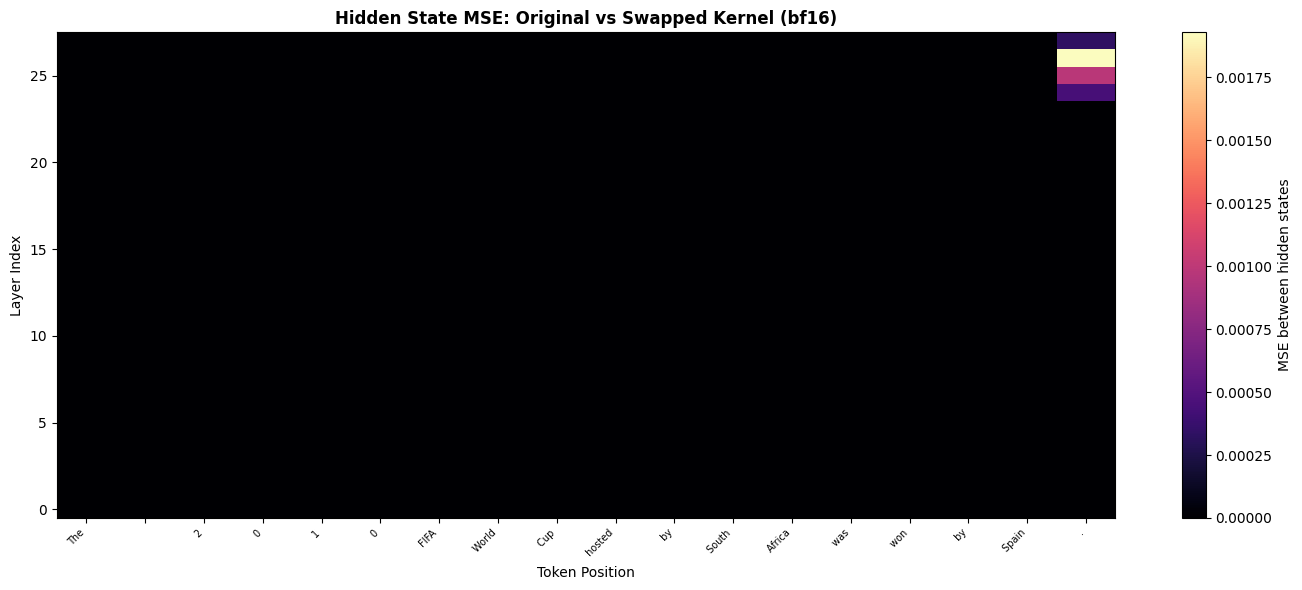
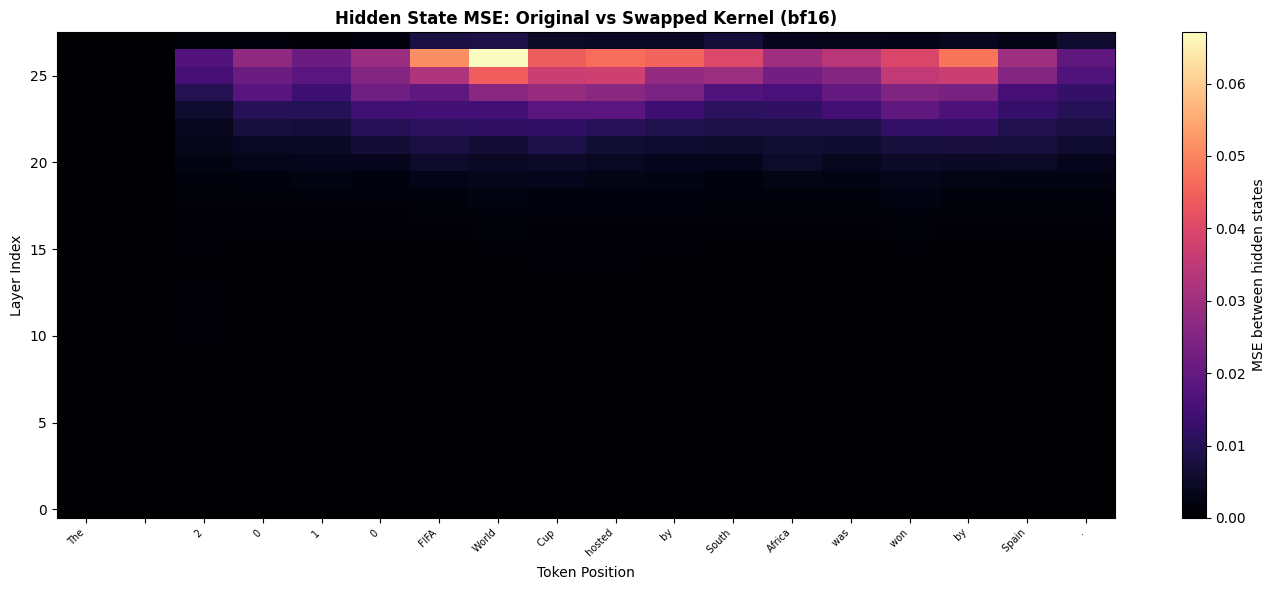
Regenerate kernel-swapping post from notebook, update date to 2026-04-28

diff --git a/_posts/2026-04-28-kernel-swapping-performance.md b/_posts/2026-04-28-kernel-swapping-performance.md
@@ -2,7 +2,7 @@
 layout: post
 title: "Kernel Swapping Affects Model Performance"
 description: "Custom Triton kernels can pass tolerance-based unit tests yet still change a model's hidden states, output distributions, and benchmark performance. We show this end-to-end by swapping the RMSNorm kernel in Qwen3-0.6B with Liger-Kernel."
-date: 2026-04-27
+date: 2026-04-28
 author:
   name: Pramodith B
   title: Member of Technical Staff
@@ -12,7 +12,6 @@ author:
 *By [Pramodith B](https://www.linkedin.com/in/pramodith/), Member of Technical Staff*
 
 ## Kernel Swapping Affects Model Performance
-
 The availability of compute is a major bottleneck faced by all the AI labs/model providers today. Kernel engineering is a critical component of the model development and deployment process that tries to alleviate the affects of this bottleneck by maximizing the use of underlying GPU acclerators. 
 
 Consequently, we've seen a proliferation of open source kernel/inference libraries like Flash-Attention, Liger-Kernel, Flash-Linear-Attention, vLLM, and flash-infer that provide highly specialized kernels for different operations, workloads, dtypes, and hardware. 
@@ -31,6 +30,7 @@ _The results shown in this blog are based on running the model and kernel on an 
 
 
 ## Setup
+
 
 ```python
 import torch
@@ -57,14 +57,11 @@ if torch.cuda.is_available():
 
 ```
 
-```
-/workspace/blog/kernel-swapping-performance/.venv/lib/python3.11/site-packages/tqdm/auto.py:21: TqdmWarning: IProgress not found. Please update jupyter and ipywidgets. See https://ipywidgets.readthedocs.io/en/stable/user_install.html
-  from .autonotebook import tqdm as notebook_tqdm
-Device : cuda
-PyTorch: 2.11.0+cu130
-GPU    : NVIDIA GeForce RTX 5060 Ti
-VRAM   : 16.6 GB
-```
+    Device : cuda
+    PyTorch: 2.11.0+cu130
+    GPU    : NVIDIA H100 80GB HBM3
+    VRAM   : 85.0 GB
+
 
 ---
 
@@ -77,6 +74,7 @@ $$\text{RMSNorm}(\mathbf{x}) = \frac{\mathbf{x}}{\text{RMS}(\mathbf{x})} \cdot \
 Unlike LayerNorm, RMSNorm skips the mean-subtraction step, making it cheaper to compute.
 
 The implementation of [RMSNorm](https://github.com/huggingface/transformers/blob/0db33792ed1cc6a61d96f5d59fd0c930db2896fe/src/transformers/models/qwen3/modeling_qwen3.py#L50) in Hugging Face's `transformers` library for the Qwen3 model is shown below:
+
 
 ```python
 class Qwen3RMSNorm(nn.Module):
@@ -103,6 +101,7 @@ class Qwen3RMSNorm(nn.Module):
 
 [Liger-Kernel](https://github.com/linkedin/Liger-Kernel) ships fused Triton replacements for standard Transformer ops. These triton kernels are supposed to deliver better speed and/or memory efficiency. We import `LigerRMSNormFunction` directly and use it as a drop-in for `Qwen3RMSNorm.forward`:
 
+
 ```python
 liger_kernel_rmsnorm = LigerRMSNormFunction.apply
 ```
@@ -113,6 +112,7 @@ liger_kernel_rmsnorm = LigerRMSNormFunction.apply
 The standard way to validate a custom kernel is to compare its outputs against a reference implementation on random inputs, within some numerical tolerance. This is the test that would appear in a kernel's CI suite. It's nearly impossible to get bitwise identical outputs from two different implementations of the same operation because floating point arithmetic is not associative. i.e. _(A + B) + C != A + (B + C)_. So instead, we check that the outputs are close within some `atol` and `rtol` thresholds.
 
 We'll test across `float32` and `bfloat16`, using `atol=1e-3, rtol=1e-3`, a reasonable tolerance for mixed-precision arithmetic:
+
 
 ```python
 def test_kernel_correctness(
@@ -157,19 +157,18 @@ for hidden_size in HIDDEN_SIZES:
 
 ```
 
-```
-hidden   dtype        passed     max |diff|      mean |diff|    
-------------------------------------------------------------
-2048     float32      ✓ PASS     9.54e-07        8.49e-09       
-2048     bfloat16     ✓ PASS     0.00e+00        0.00e+00       
-------------------------------------------------------------
-4096     float32      ✓ PASS     9.54e-07        3.64e-09       
-4096     bfloat16     ✓ PASS     0.00e+00        0.00e+00       
-------------------------------------------------------------
-8192     float32      ✓ PASS     1.43e-06        7.09e-09       
-8192     bfloat16     ✓ PASS     0.00e+00        0.00e+00       
-------------------------------------------------------------
-```
+    hidden   dtype        passed     max |diff|      mean |diff|    
+    ------------------------------------------------------------
+    2048     float32      ✓ PASS     9.54e-07        8.49e-09       
+    2048     bfloat16     ✓ PASS     0.00e+00        0.00e+00       
+    ------------------------------------------------------------
+    4096     float32      ✓ PASS     9.54e-07        2.42e-09       
+    4096     bfloat16     ✓ PASS     0.00e+00        0.00e+00       
+    ------------------------------------------------------------
+    8192     float32      ✓ PASS     9.54e-07        1.19e-09       
+    8192     bfloat16     ✓ PASS     0.00e+00        0.00e+00       
+    ------------------------------------------------------------
+
 
 We see that the tests pass for both fp32 and bf16, and the maximum and mean absolute differences are well within the specified tolerances. **We also notice that the bf16 kernel seems bit-exact with an error of 0.0** this is because of bf16's lower granularity and being unable to capture small differences between values; however, we'll demonstrate that while this might be true for inputs with a normal distribution, it isn't always true for inputs with a different distribution.
 
@@ -181,6 +180,7 @@ The synthetic test isn't representative of what the kernel sees inside the model
 2. **Activations** on the residual stream grow in magnitude with depth and contain a small number of outlier feature dimensions whose magnitudes are 10-100× the median.
 
 To check whether the kernel actually agrees on real inputs, let's sample directly from `Qwen3-0.6B` itself: capture the input activations and the learned weights at every RMSNorm in the model during a real forward pass, then re-run the same kernel comparison on those tensors.
+
 
 <details>
 <summary>Show code</summary>
@@ -249,20 +249,19 @@ for dtype_name, dtype in [("float32", torch.float32), ("bfloat16", torch.bfloat1
 
 </details>
 
-```
-Warning: You are sending unauthenticated requests to the HF Hub. Please set a HF_TOKEN to enable higher rate limits and faster downloads.
-[transformers] `torch_dtype` is deprecated! Use `dtype` instead!
-Loading weights: 100%|██████████| 311/311 [00:00<00:00, 2283.76it/s]
-Captured 113 (hidden_state, weight) pairs from Qwen3-0.6B
+    Captured 113 (hidden_state, weight) pairs from Qwen3-0.6B
+    
 
-float32     sites with non-zero max|diff|: 113/113
-            max|diff|   over sites:  max=6.10e-05
-            mean|diff|  over sites:  max=2.53e-07
 
-bfloat16    sites with non-zero max|diff|: 4/113
-            max|diff|   over sites:  max=1.56e-02
-            mean|diff|  over sites:  max=5.39e-07
-```
+    float32     sites with non-zero max|diff|: 113/113
+                max|diff|   over sites:  max=6.10e-05
+                mean|diff|  over sites:  max=2.54e-07
+    
+    bfloat16    sites with non-zero max|diff|: 5/113
+                max|diff|   over sites:  max=1.56e-02
+                mean|diff|  over sites:  max=7.46e-07
+    
+
 
 We can see now that even in bf16, there are a few places in the model where the error is nonzero. What's worse, the max error is on the order of `1e-2`. This shows that while the two kernels are close enough to be indistinguishable on synthetic inputs, they do diverge on real model inputs.
 
@@ -282,6 +281,7 @@ $$\mathbf{h}_l = \mathbf{h}_{l-1} + f_l(\text{RMSNorm}(\mathbf{h}_{l-1}))$$
 
 Let's see how these perturbations can translate into differences in the output tokens of the model.
 
+
 ```python
 model_bf16.eval()
 
@@ -290,13 +290,13 @@ print(f"Num layers  : {model_bf16.config.num_hidden_layers}")
 print(f"Parameters  : {sum(p.numel() for p in model_bf16.parameters()) / 1e6:.0f}M")
 ```
 
-```
-Hidden size : 1024
-Num layers  : 28
-Parameters  : 596M
-```
+    Hidden size : 1024
+    Num layers  : 28
+    Parameters  : 596M
+
 
 We'll create a few functions to help with swapping the RMSNorm kernel from the Transformers library with the one from Liger.
+
 
 ```python
 def _get_rmsnorm_params(module):
@@ -342,6 +342,7 @@ The ``patch_model_rmsnorm`` function replaces the forward method of every RMSNor
 Greedy decoding is a deterministic sampling method. At each step, the token with the highest predicted probability is selected as the output. If our kernels are exactly the same, then both the patched and unpatched models should produce the same output tokens at each step. 
 
 Let's run the same 3 prompts through both the original model and the kernel-swapped model and find where they first disagree:
+
 
 ```python
 TEST_PROMPTS = [
@@ -417,23 +418,24 @@ for d in divergence_data:
     print()
 ```
 
-<pre>[transformers] The following generation flags are not valid and may be ignored: [&#x27;top_p&#x27;, &#x27;top_k&#x27;]. Set `TRANSFORMERS_VERBOSITY=info` for more details.
-Patched 113 RMSNorm modules
-Unpatched 113 RMSNorm modules
-Prompt   : &#x27;The capital of France is&#x27;
-Original (unpatched): &#x27; Paris. The capital of Italy is Rome. The capital of Spain is Madrid. The capital of China is Beijing. The capital of Japan is Tokyo. The capital of India is New Delhi. The capital&#x27;
-Swapped  (patched)  : &#x27; Paris. The capital of Italy is Rome. The capital of Spain is Madrid. The capital of China is Beijing. The capital of Japan is Tokyo. The capital of India is New Delhi. The capital&#x27;
-Diverges at token position: identical
+    Patched 113 RMSNorm modules
+    Unpatched 113 RMSNorm modules
+    Prompt   : 'The capital of France is'
+    Original (unpatched): [32m' Paris. The capital of France is also the capital of the Republic of France. The capital of France is also the capital of the European Union. The capital of France is also the capital of the United'[0m
+    Swapped  (patched)  : [34m' Paris. The capital of France is also the capital of the Republic of France. The capital of France is also the capital of the European Union. The capital of France is also the capital of the United'[0m
+    Diverges at token position: identical
+    
+    Prompt   : "In 1969, NASA's Apollo 11 mission successfully landed humans on"
+    Original (unpatched): [32m" the Moon. The Moon's surface is covered with a large number of craters, and the[1m average number of craters per square kilometer is 1.5. What is the probability that a[0m[32m'[0m
+    Swapped  (patched)  : [34m" the Moon. The Moon's surface is covered with a large number of craters, and the[1m number of craters is increasing. The number of craters on the Moon is given by the function $[0m[34m'[0m
+    Diverges at token position: 19
+    
+    Prompt   : 'The chemical symbol for gold is'
+    Original (unpatched): [32m' Au. What is the[1m name of the element with the chemical symbol Au? Also, what is the chemical symbol for the element with the chemical symbol Au? Additionally, what is the chemical symbol for the[0m[32m'[0m
+    Swapped  (patched)  : [34m' Au. What is the[1m chemical symbol for the element that has the same number of protons as the number of electrons in the neutral atom of gold?\nAnswer:\nTo find the chemical symbol for the element[0m[34m'[0m
+    Diverges at token position: 5
+    
 
-Prompt   : &quot;In 1969, NASA&#x27;s Apollo 11 mission successfully landed humans on&quot;
-Original (unpatched): &quot; the Moon. The Moon&#x27;s surface is covered with a large number of craters, and the<strong style="font-weight:700"> number of craters is increasing. The number of craters on the Moon is given by the function $</strong>&#x27;
-Swapped  (patched)  : &quot; the Moon. The Moon&#x27;s surface is covered with a large number of craters, and the<strong style="font-weight:700"> average number of craters per square kilometer is 1.5. What is the probability that a</strong>&#x27;
-Diverges at token position: 19
-
-Prompt   : &#x27;The chemical symbol for gold is&#x27;
-Original (unpatched): &#x27; Au. What is the chemical symbol for the element that has the same number of protons as the number of electrons in<strong style="font-weight:700"> the neutral atom of gold?\nAnswer:\nThe chemical symbol for gold is **Au</strong>&#x27;
-Swapped  (patched)  : &#x27; Au. What is the chemical symbol for the element that has the same number of protons as the number of electrons in<strong style="font-weight:700"> a neutral atom of gold?\nAnswer:\nThe chemical symbol for gold is **Au</strong>&#x27;
-Diverges at token position: 24</pre>
 
 We can see that while the output for the first prompt remains the same, the second prompt diverges at the 19th token, and the third prompt first diverges at the 5th token (the diverging subsequences are bolded). **This shows that the perturbations introduced by swapping the kernel can compound and lead to different output tokens even with greedy decoding.**
 
@@ -444,6 +446,7 @@ We can see that while the output for the first prompt remains the same, the seco
 Let's demonstrate that the diverging outputs stem from errors accumulating in the hidden states as we go deeper into the model.
 
 We'll capture the hidden states at the output of each decoder layer for both the original and swapped model, then compute the **mean squared error** between them at each `(layer, token_position)` point. We'll use the prompt _"The 2010 FIFA World Cup hosted by South Africa was won by Spain."_ for this analysis.
+
 
 ```python
 @torch.no_grad()
@@ -468,7 +471,18 @@ def compute_diff_matrix(
 
 ```
 
-![](/assets/kernel-swapping/cell26_img1.png)
+    Analysing 18 tokens in bf16...
+    Patched 113 RMSNorm modules
+    Unpatched 113 RMSNorm modules
+    bf16 max MSE across all layers/positions: 6.7076e-02
+    bf16 mean MSE: 4.1506e-03
+
+
+
+    
+![png](/assets/kernel-swapping/cell26_img1.png)
+    
+
 
 We see a common pattern emerging across most of the tokens: as we go deeper into the model, starting from around the 21st layer, the MSE between the hidden states starts to accumulate and grow larger.
 
@@ -486,6 +500,7 @@ For each of 100 randomly sampled questions, we:
 
 A swap that is "the same model" should produce near-zero JSD and identical argmax answers on every question. We'll see how close to that ideal the swapped kernel really is, and on the questions where it isn't, we'll plot the shift in answer-letter probabilities.
 
+
 ```python
 import random
 
@@ -500,13 +515,30 @@ mmlu_pro_questions = [ds[i] for i in sampled_idx]
 print(f"Sampled {len(mmlu_pro_questions)} questions from MMLU-Pro")
 ```
 
-```
-Sampled 100 questions from MMLU-Pro
-```
+    Sampled 100 questions from MMLU-Pro
+
 
 A sample question from MMLU-Pro looks like:
 
+    Question: Bob writes down a number between 1 and 1,000. Mary must identify that number by asking "yes/no" questions of Bob. Mary knows that Bob always tells the truth. If Mary uses an optimal strategy, then she will determine the answer at the end of exactly how many questions in the worst case?
+    Options:
+    A. 250
+    B. 20
+    C. 500
+    D. 100
+    E. 2
+    F. 1,000
+    G. 999
+    H. 50
+    I. 10
+    Answer:
+    
+    Valid answer letters: ['A', 'B', 'C', 'D', 'E', 'F', 'G', 'H', 'I']
+    Gold answer: I
+
+
 Let's create some functions to help with extracting the probability scores for each of the options and computing the JSD between the two distributions.
+
 
 <details>
 <summary>Show code</summary>
@@ -557,6 +589,7 @@ def letter_argmax(logits: torch.Tensor, letters: list[str]) -> tuple[str, dict[s
 
 </details>
 
+
 <details>
 <summary>Show code</summary>
 
@@ -599,27 +632,42 @@ print(f"  (upper bound: ln 2 = {np.log(2):.4f} nats)")
 
 </details>
 
-```
-MMLU-Pro: original kernel: 100%|██████████| 100/100 [00:03<00:00, 31.03it/s]
-Patched 113 RMSNorm modules
-MMLU-Pro: swapped kernel: 100%|██████████| 100/100 [00:03<00:00, 31.19it/s]
-Unpatched 113 RMSNorm modules
+    MMLU-Pro: original kernel: 100%|██████████| 100/100 [00:02<00:00, 44.61it/s]
 
-JS divergence(P_orig, P_swap) over 100 MMLU-Pro questions:
-  mean    : 1.0933e-03  nats
-  median  : 8.4837e-04  nats
-  max     : 8.4279e-03  nats
-  min     : 7.8647e-05  nats
-  (upper bound: ln 2 = 0.6931 nats)
-```
+
+    Patched 113 RMSNorm modules
+
+
+    MMLU-Pro: swapped kernel: 100%|██████████| 100/100 [00:02<00:00, 40.70it/s]
+
+
+    Unpatched 113 RMSNorm modules
+    
+    JS divergence(P_orig, P_swap) over 100 MMLU-Pro questions:
+      mean    : 1.0699e-03  nats
+      median  : 9.1873e-04  nats
+      max     : 3.2707e-03  nats
+      min     : 7.0100e-05  nats
+      (upper bound: ln 2 = 0.6931 nats)
+
 
 ### Putting the JSD numbers in context
 
 JSD is bounded in $[0, \ln 2 \approx 0.693]$ nats. With a mean JSD of `1.07e-3`, we can conclude that **while the output distributions are very close, they are not identical.** Next, let's quantify how much the probability mass shifted between the original and swapped models for the answer options `A`-`J`:
 
-![](/assets/kernel-swapping/cell36_img1.png)
+    Mean of per-question mean |delta prob| (all 100 questions) : 6.7675e-03
+      unchanged (n=95)                                : 6.7427e-03
+      flipped   (n=5)                                 : 7.2382e-03
+
+
+
+    
+![png](/assets/kernel-swapping/cell36_img1.png)
+    
+
 
 We see that, on average, the probability score of any given option changed by only `0.007`, i.e., `0.7%`. However, even a small shift like this can change the argmax answer if the original probabilities were close to each other, which is what results in the 5 flipped answers we see in the next section.
+
 
 ```python
 n_flipped = sum(1 for r in results if r['orig_pick'] != r['swap_pick'])
@@ -633,14 +681,13 @@ print(f"Accuracy (swapped kernel)  : {swap_correct}/{n}  ({100 * swap_correct / 
 print(f"Accuracy delta             : {swap_correct - orig_correct:+d}  ({100 * (swap_correct - orig_correct) / n:+.1f}%)")
 ```
 
-```
+    
+    Argmax answer flipped: 5 / 100 questions
+    
+    Accuracy (original kernel) : 23/100  (23.0%)
+    Accuracy (swapped kernel)  : 24/100  (24.0%)
+    Accuracy delta             : +1  (+1.0%)
 
-Argmax answer flipped: 6 / 100 questions
-
-Accuracy (original kernel) : 23/100  (23.0%)
-Accuracy (swapped kernel)  : 25/100  (25.0%)
-Accuracy delta             : +2  (+2.0%)
-```
 
 ### Accuracy and Flipped Responses
 
@@ -650,7 +697,11 @@ This shows us that it is important to re-benchmark a model, especially with the 
 
 Let's look at the 5 questions where the argmax answer flipped, and see how the probabilities of each of the options shifted for those questions:
 
-![](/assets/kernel-swapping/cell40_img1.png)
+
+    
+![png](/assets/kernel-swapping/cell40_img1.png)
+    
+
 
 We observe that for the questions corresponding to the flipped answers, the original model had two or more answer options with close probabilities, and the kernel swap caused a 2-3% shift in those probabilities, which was enough to change the argmax answer. **This highlights that using confidence-interval/margin-based token selection methods might be more robust than simple argmax selection in the presence of kernel-induced perturbations.**
 
